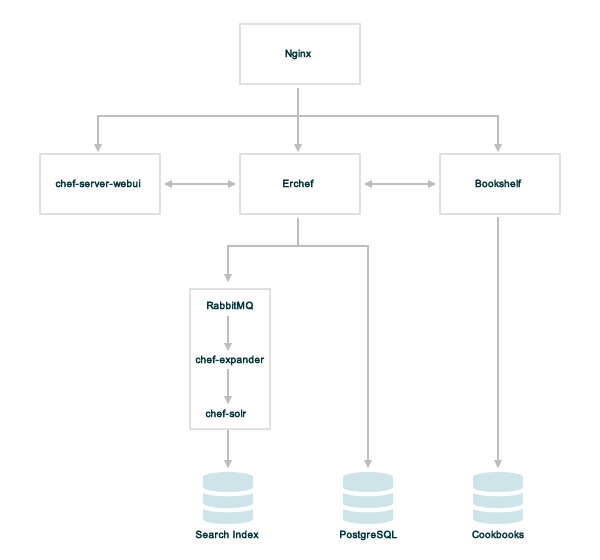
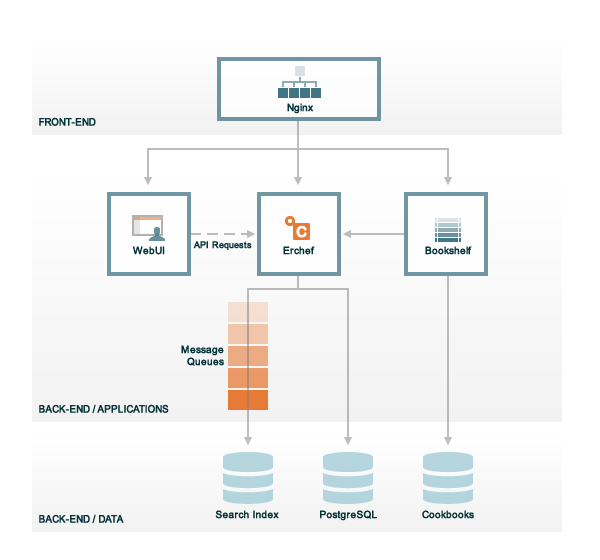
Message queues instead of RabbitMQ/chef-expander/chef-solr

Changed region(s): [[0.06, 0.0304, 0.96, 0.9714], [0.06, 0.6982, 0.27, 0.7589], [0.06, 0.9107, 0.21, 0.9411]]

diff --git a/chef_master/source/server_components.rst b/chef_master/source/server_components.rst
@@ -20,17 +20,17 @@ The following diagram shows the various components that are part of a |chef serv
      - Description
    * - Bookshelf
      - .. include:: ../../includes_chef_server/includes_chef_server_component_bookshelf.rst
-   * - chef-expander
-     - .. include:: ../../includes_chef_server/includes_chef_server_component_expander.rst
    * - chef-server-webui
      - .. include:: ../../includes_chef_server/includes_chef_server_component_webui.rst
-   * - chef-solr
-     - .. include:: ../../includes_chef_server/includes_chef_server_component_solr.rst
    * - Erchef
      - .. include:: ../../includes_chef_server/includes_chef_server_component_erchef.rst
+   * - Message Queues
+     - Messages are sent to the Search Index using the following components:
+       
+       #. .. include:: ../../includes_chef_server/includes_chef_server_component_rabbitmq.rst
+       #. .. include:: ../../includes_chef_server/includes_chef_server_component_expander.rst
+       #. .. include:: ../../includes_chef_server/includes_chef_server_component_solr.rst
    * - Nginx
      - .. include:: ../../includes_chef_server/includes_chef_server_component_nginx.rst
    * - PostgreSQL
      - .. include:: ../../includes_chef_server/includes_chef_server_component_postgresql.rst
-   * - RabbitMQ
-     - .. include:: ../../includes_chef_server/includes_chef_server_component_rabbitmq.rst
